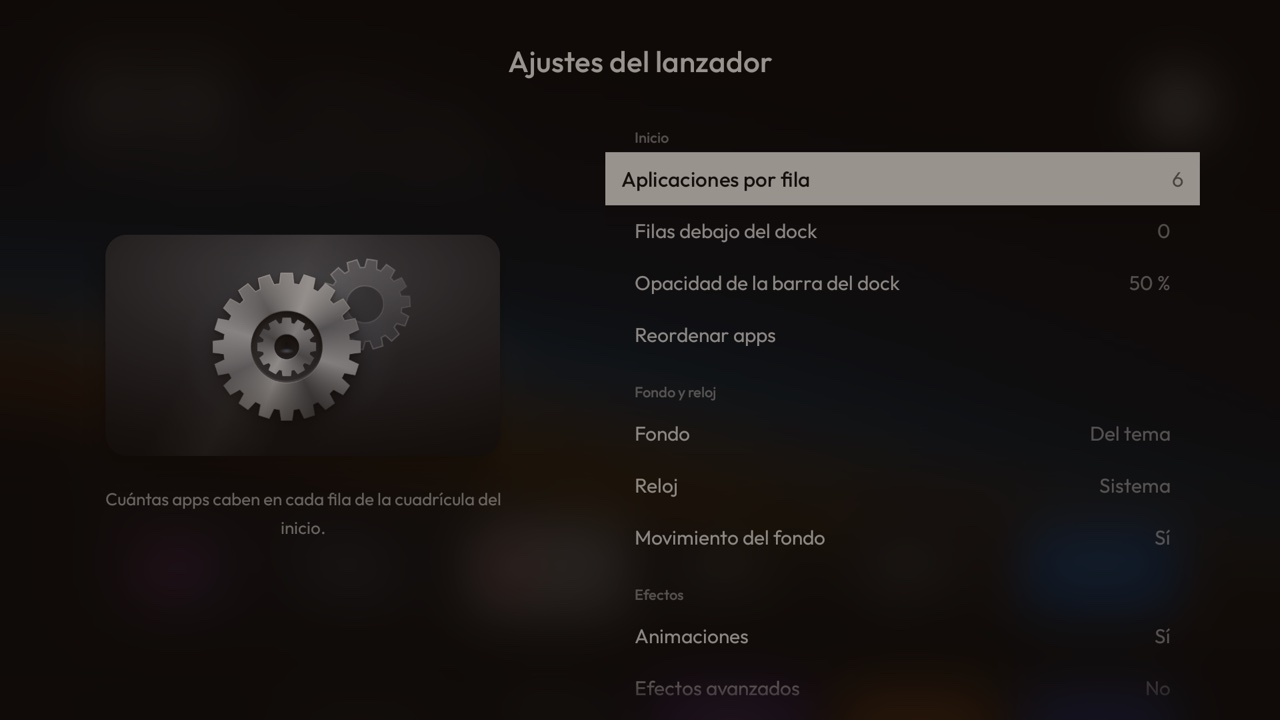
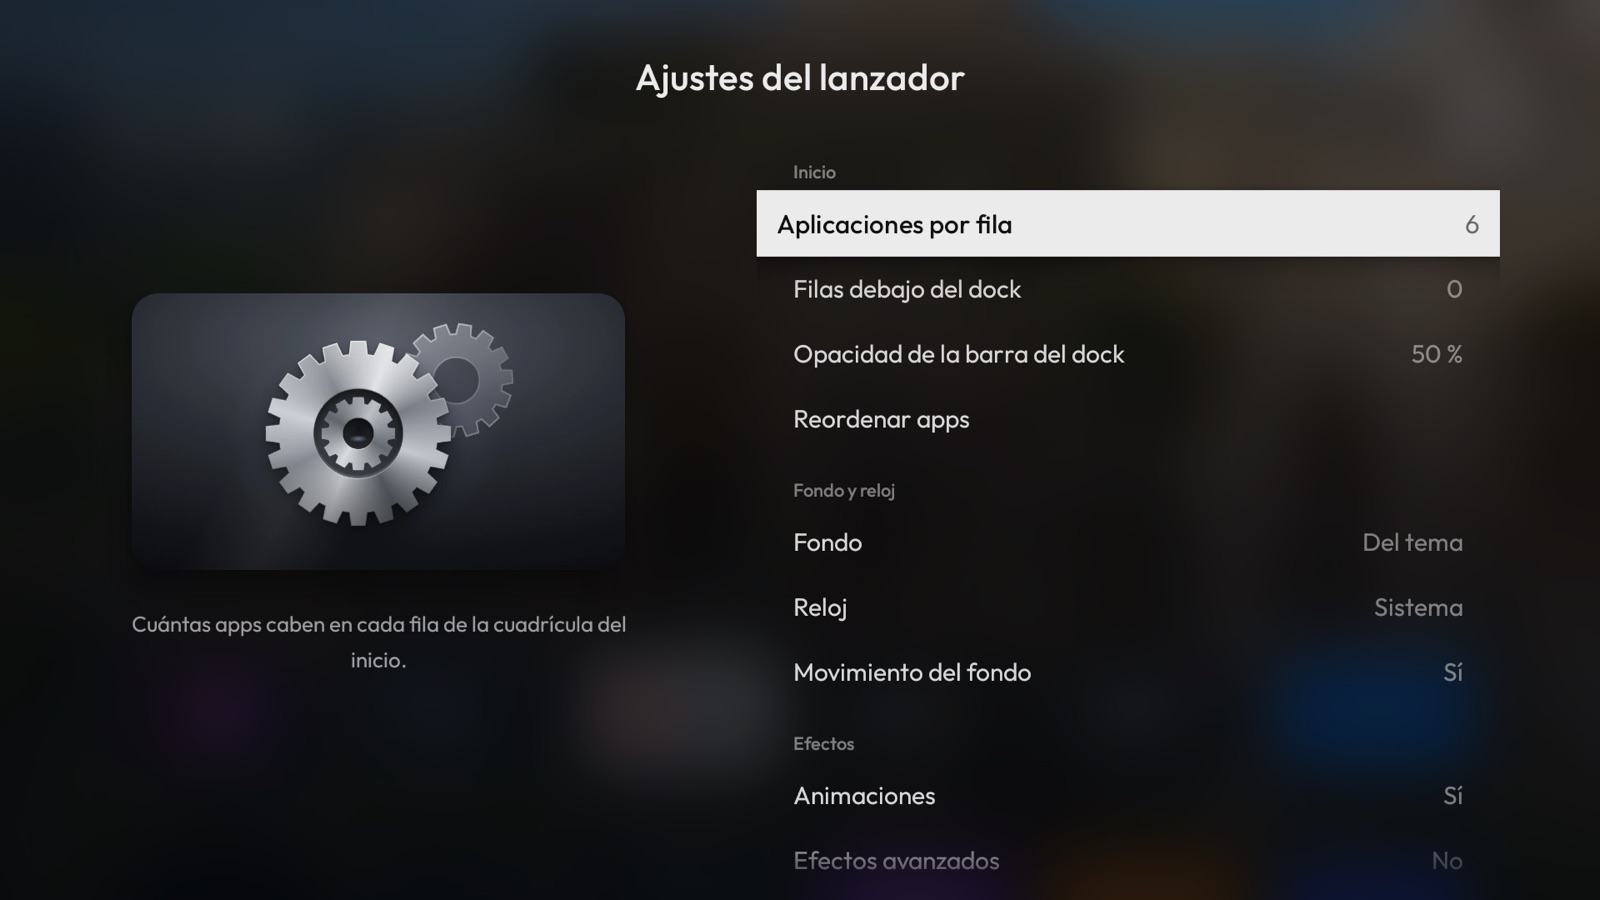
3.5-tv.1: capturas nuevas en el README / New README screenshots

diff --git a/README.md b/README.md
@@ -10,13 +10,13 @@
 > *A personal fork of Clean Your TV in an Apple TV style; see [mi-tv/README.md](mi-tv/README.md) (in Spanish).
 > The original README follows. Versioning: Clean Your TV's release, then `-tv.N` counts this branch's drops on top of it.*
 
-*Capturas de la versión 3.4-tv.1 en un Panasonic Google TV (6 nov 2026; la fila de abajo, de versiones anteriores) · Screenshots of version 3.4-tv.1 (Clean Your TV 3.4 + this branch's 1st drop on it; bottom row from earlier versions).*
+*Capturas de la versión 3.5-tv.1 en un Panasonic Google TV (17 nov 2026; el menú de una app y la fila de abajo, salvo el menú de ajustes, de versiones anteriores) · Screenshots of version 3.5-tv.1 (Clean Your TV 3.5 + this branch's 1st drop on it; the app menu and the bottom row, except the settings menu, from earlier versions).*
 
 | Inicio / Home | Centro de control / Control Center | Menú de una app / App menu |
 |---|---|---|
-| ![Inicio: reloj, el tiempo con lluvia, foto de Ordesa con su nombre y el dock con TV en Vivo enfocado](docs/fork/inicio.jpg) | ![Centro de control abierto: Apagar, Red, Modo noche, Entradas, Chromecast, VPN y Ajustes, cada botón su propio cristal sobre el fondo](docs/fork/centro-control.jpg) | ![Menú de Plex: Sustituir por otra app, Mover, Información de la aplicación y Desinstalar, en cristal sobre los iconos desenfocados](docs/fork/menu-app.jpg) |
+| ![Inicio: reloj, el tiempo, foto de Ronda con su nombre y el dock con TV en Vivo enfocado](docs/fork/inicio.jpg) | ![Centro de control abierto sobre Ronda: Apagar, Red, Modo noche, Entradas, Chromecast, VPN y Ajustes, cada botón su propio cristal sobre el fondo](docs/fork/centro-control.jpg) | ![Menú de Plex: Sustituir por otra app, Mover, Información de la aplicación y Desinstalar, en cristal sobre los iconos desenfocados](docs/fork/menu-app.jpg) |
 | **Foco tvOS en la cuadrícula / tvOS focus in the grid** | **Modo noche / Night mode** | **Menú de ajustes / Settings menu** |
-| ![Atresplayer enfocado: crece un 25 % desde su centro, sin marco, y su nombre aparece debajo](docs/fork/foco-cuadricula.jpg) | ![Modo noche activado: fondo nocturno de auroras y la pantalla atenuada, con el Centro de control abierto](docs/fork/modo-noche.jpg) | ![Ajustes del televisor, Ajustes del lanzador, Tarjetas de módulos, Editar el dock y Reordenar apps, en cristal](docs/fork/menu-ajustes.jpg) |
+| ![Atresplayer enfocado: crece un 25 % desde su centro, sin marco, y su nombre aparece debajo](docs/fork/foco-cuadricula.jpg) | ![Modo noche activado: fondo nocturno de auroras y la pantalla atenuada, con el Centro de control abierto](docs/fork/modo-noche.jpg) | ![Menú de ajustes: Ajustes del televisor, Ajustes del lanzador, Tarjetas de módulos, Editar el dock y Reordenar apps, en cristal](docs/fork/menu-ajustes.jpg) |
 
 *Iconos estilo tvOS (3.3-tv.5) · tvOS-style icons*
 
@@ -54,7 +54,7 @@
 
 | | |
 |---|---|
-| ![Ajustes del lanzador estilo tvOS con Aplicaciones por fila enfocada](docs/fork/ajustes-tvos.jpg) | ![Lista de Aplicaciones por fila: 4, 5, 6 con ✓ y 7](docs/fork/ajustes-tvos-lista.jpg) |
+| ![Ajustes del lanzador estilo tvOS con Aplicaciones por fila enfocada: 6](docs/fork/ajustes-tvos.jpg) | ![Lista de Aplicaciones por fila: 4, 5, 6 con ✓ y 7](docs/fork/ajustes-tvos-lista.jpg) |
 
 ![Ajustes del lanzador con Elegir inicio predeterminado enfocada y su explicación larga bajo el icono](docs/fork/ajustes-tvos-texto-largo.jpg)
 
